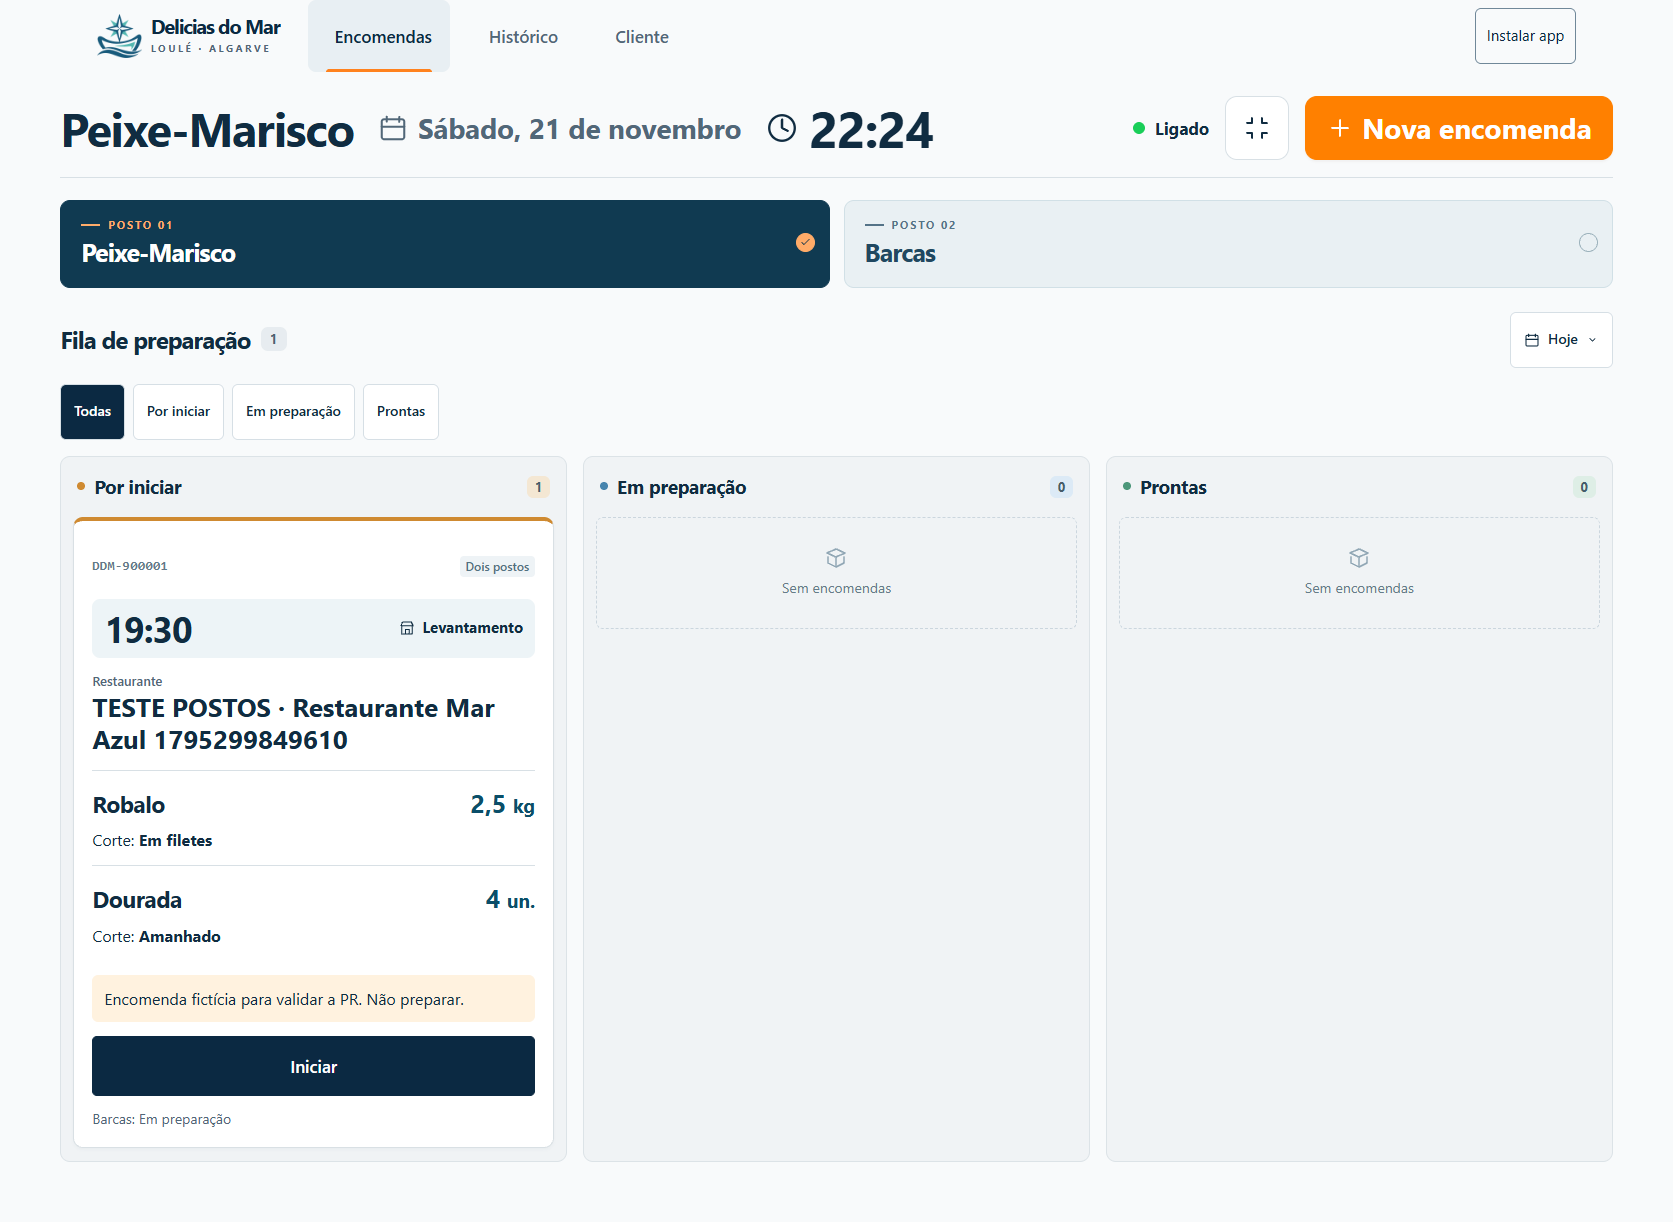
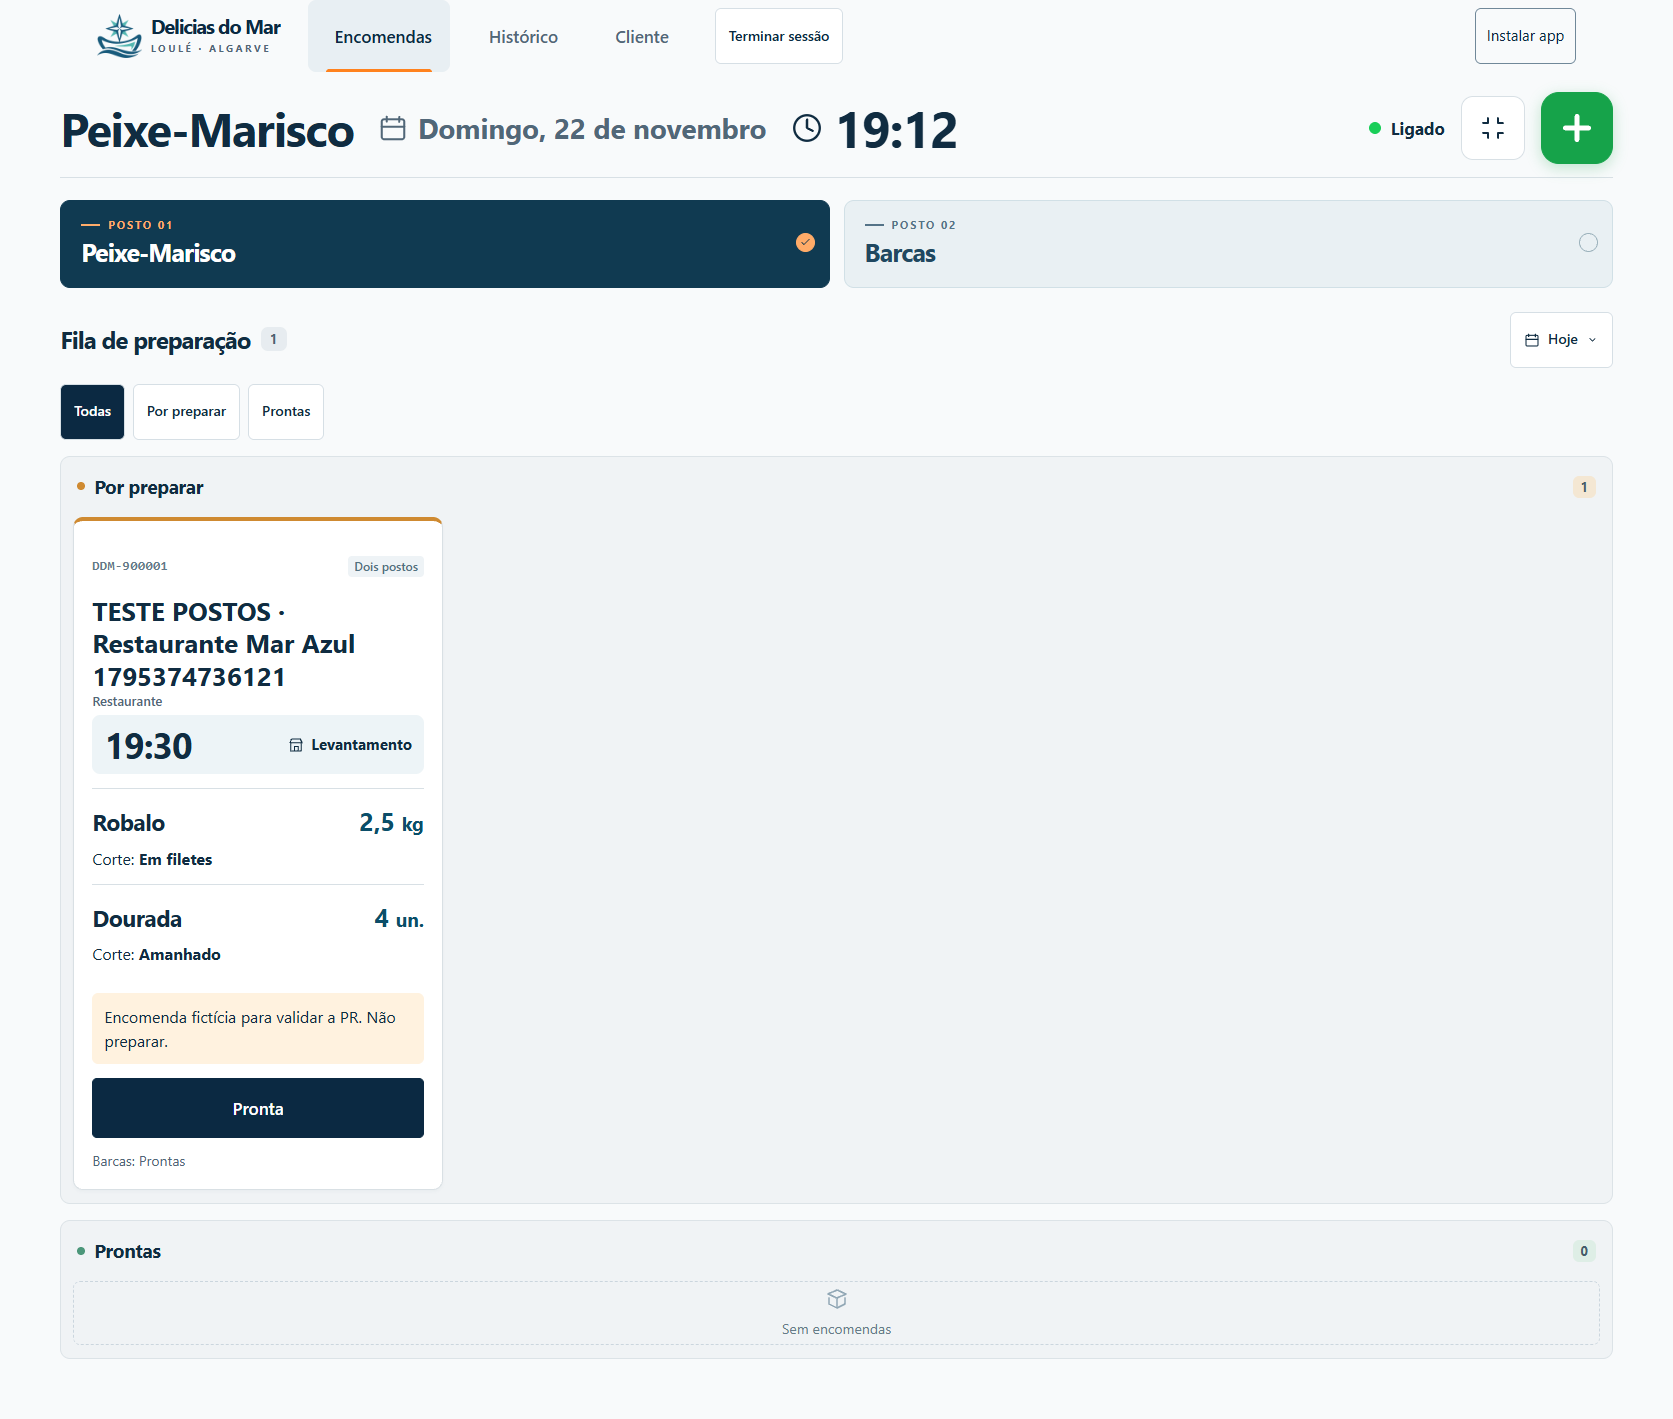
Conclui a preparação num toque e destaca o cliente

diff --git a/src/app.js b/src/app.js
@@ -1,6 +1,7 @@
 import {teamAuth} from './team-auth.js';
 const stations = {bancada:"Peixe-Marisco",barcas:"Barcas"};
-const states = ["Por iniciar","Em preparação","Prontas"];
+const states = ["Por preparar","Por preparar","Prontas"];
+const preparationStates=[0,2];
 const categories = ["Barcas","Peixe fresco","Marisco fresco","Marisco cozido","Congelados"];
 const catalog = [
   {id:"bp",cat:0,name:"Barca pequena",unit:"un.",size:"50 × 17 cm",budget:50},
@@ -22,7 +23,7 @@ const label=i=>i.name||product(i.product)?.name||"Artigo";
 const unit=i=>i.unit||product(i.product)?.unit||"";
 const fmtQty=n=>Number(n).toLocaleString("pt-PT",{maximumFractionDigits:2});
 const code=id=>refs.get(id)||String(id);
-const globalState=o=>Object.values(o.tasks).every(v=>v===2)?2:Object.values(o.tasks).some(v=>v>0)?1:0;
+const globalState=o=>Object.values(o.tasks).every(v=>v===2)?2:0;
 const typeName=o=>o.type==="restaurante"?"Restaurante":"Particular";
 function lineDescription(i){
  const p=product(i.product);
@@ -141,8 +142,7 @@ async function onlineRequest(url,data){
  const t=row.station_tasks.find(t=>t.station===data.station);const patch={};
  if(!t)throw Error("Posto indisponível.");
  if(data.action==="advance"||data.action==="back"){
- const n=statusKeys.indexOf(t.status)+(data.action==="advance"?1:-1);if(n<0||n>2)throw Error("Atualiza o posto.");
- patch.status=statusKeys[n];patch.device_station=station;
+ patch.status=data.action==="advance"?"pronta":"por_iniciar";patch.device_station=station;
  }else throw Error("Ação indisponível.");
  await rest("rpc/update_task",{p_task_id:t.id,p_expected_version:t.version,p_patch:patch});
  }
@@ -211,18 +211,17 @@ function updateClock(){
 }
 function stationCards(){return `<div class="stations" aria-label="Selecionar posto">${Object.entries(stations).map(([k,title],i)=>`<button data-station="${k}" class="station ${k} ${station===k?"selected":""}" aria-pressed="${station===k}">
 <div class="station-art" aria-hidden="true"></div><div class="station-copy"><span class="station-num"><span class="tiny-rule"></span>POSTO 0${i+1}</span><strong>${title}</strong><span class="station-desc">${k==="barcas"?"Preparação das barcas":"Peixe, marisco e congelados"}</span></div><span class="station-state">${station===k?icon("check",13):""}</span></button>`).join("")}</div>`;}
-function statusPill(n){return `<span class="status-pill ${cls[n]}"><b></b>${["Por iniciar","Em preparação","Pronta"][n]}</span>`;}
+function statusPill(n){return `<span class="status-pill ${cls[n===2?2:0]}"><b></b>${n===2?"Pronta":"Por preparar"}</span>`;}
 const modeIcon=o=>o.delivery==="Entrega"?"truck":"shop";
 function datePicker(){const text=day===dayNow()?"Hoje":day===shiftDay(dayNow(),1)?"Amanhã":dateText(day,{day:"2-digit",month:"short"});return `<label class="date-pick" title="Escolher dia">${icon("calendar",16)}${esc(text)}${icon("chev",13)}<input type="date" id="orderDay" aria-label="Dia das encomendas" value="${esc(day)}"></label>`;}
 function toolbar(total){
  const queue=page==="encomendas";
- const filters=["Todas",...states].map((label,index)=>{
-  const value=index===0?"all":statusKeys[index-1];
+ const filters=["Todas",...preparationStates.map(n=>states[n])].map((label,index)=>{
+  const value=index===0?"all":statusKeys[preparationStates[index-1]];
   return `<button class="btn" data-filter="${value}" aria-pressed="${filter===value}">${label}</button>`;
  }).join("");
  return `<div class="queuehead"><div class="queue-title"><h2>${queue?"Fila de preparação":"Histórico"}</h2><span class="total">${total}</span></div><div class="tools">${datePicker()}</div></div>${queue?`<div class="queue-filters" role="group" aria-label="Estado da preparação">${filters}</div>`:""}`;
 }
-const advanceLabel=(s,n)=>n===0?"Iniciar":s==="barcas"?"Barca pronta":"Preparação pronta";
 const handoffLabel=o=>o.delivery==="Entrega"?"Confirmar entrega":"Confirmar levantamento";
 function contactActions(o){
  const dial=o.phone?`<a class="btn" href="tel:${esc(o.phone)}">Ligar</a>`:"";
@@ -243,12 +242,12 @@ function orderCard(o,n){
  const lines=o.items.filter(i=>group(i)===station);
  const other=station==="barcas"?"bancada":"barcas";
  return `<article class="ticket ${cls[n]} ${station}-ticket" data-order="${o.id}" aria-label="${esc(code(o.id)+" · "+o.name)}"><div class="ticket-top"><button class="ref" data-detail="${o.id}" aria-label="Abrir ${esc(code(o.id))}">${esc(code(o.id))}</button>${o.priority?`<span class="priority">${icon("flag",13)}Prioritária</span>`:""}${o.tasks[other]!==undefined?`<span class="mixed">Dois postos</span>`:""}</div>
+ <button class="ticket-customer" data-detail="${o.id}"><strong>${esc(o.name)}</strong><small>${typeName(o)}</small></button>
  <div class="ticket-deadline"><strong>${esc(o.time)}</strong><span>${icon(modeIcon(o),18)}${esc(o.delivery)}</span></div>
- <button class="ticket-customer" data-detail="${o.id}"><small>${typeName(o)}</small><strong>${esc(o.name)}</strong></button>
  <div class="ticket-products">${lines.map(i=>station==="barcas"?`<div class="ticket-product"><h4>${esc(label(i))}${i.qty>1?` × ${fmtQty(i.qty)}`:""}</h4><div class="boat-spec"><strong>${esc(i.people)} pessoas</strong><span>${esc(i.size||product(i.product)?.size||"")}</span></div><p>${esc(i.use)} · ${fmtQty(i.budget)} € de marisco</p>${i.note?`<p class="product-note">${esc(i.note)}</p>`:""}</div>`:`<div class="ticket-product"><div class="product-heading"><h4>${esc(label(i))}</h4><strong class="product-quantity">${fmtQty(i.qty)} <span>${esc(unit(i))}</span></strong></div><p class="product-cut">Corte: <strong>${esc(i.cut||"Não indicado")}</strong></p>${i.note?`<p class="product-note">${esc(i.note)}</p>`:""}</div>`).join("")}</div>
  ${contactActions(o)}
  ${o.note?`<p class="ticket-note">${esc(o.note)}</p>`:""}
- ${n<2?`<button class="ticket-action primary" data-advance="${o.id}">${advanceLabel(station,n)}</button>`:""}
+ ${n<2?`<button class="ticket-action primary" data-advance="${o.id}">Pronta</button>`:""}
  ${n===2?`<p class="completion">${icon("check",18)} ${station==="barcas"?"Barcas concluídas":"Preparação concluída"}</p>${globalState(o)===2?`<button class="ticket-action primary" data-handoff="${o.id}">${handoffLabel(o)}</button>`:`<p class="awaiting">A aguardar ${other==="barcas"?"as Barcas":"Peixe-Marisco"}</p>`}`:""}
  ${o.tasks[other]!==undefined&&n!==2?`<p class="other-station">${stations[other]}: ${states[o.tasks[other]]}</p>`:""}
  <p class="card-save" data-saving="${o.id}"></p></article>`;
@@ -256,9 +255,10 @@ function orderCard(o,n){
 function empty(text){return `<div class="empty">${icon("bando",24)}<span>${text}</span></div>`;}
 function boardContent(){
  const shown=orders.filter(o=>!o.cancelled && !o.handed && o.tasks[station]!==undefined).sort(byTime);
- const lanes=states.map((title,n)=>{
+ const lanes=preparationStates.map(n=>{
+  const title=states[n];
   const excluded=filter!=="all" && filter!==statusKeys[n];
-  const row=excluded?[]:shown.filter(o=>o.tasks[station]===n);
+  const row=excluded?[]:shown.filter(o=>n===2?o.tasks[station]===2:o.tasks[station]!==2);
   let message="Sem encomendas";
   if(!loaded)message=networkProblem?"Sem ligação. Verifica a ligação à internet.":"A ligar ao posto…";
   if(excluded)message="Fora do filtro";
@@ -272,7 +272,7 @@ function boardContent(){
 function listContent(){
  const stateKey=o=>o.cancelled?"cancelada":o.handed?"entregue":statusKeys[globalState(o)];
  const items=orders.filter(o=>listState==="all"||listState===stateKey(o)).sort(byTime);
- return `<div class="list-tabs">${[["all","Todas"],...statusKeys.map((key,n)=>[key,states[n]]),["entregue","Entregues"],["cancelada","Canceladas"]].map(([key,t])=>`<button data-list="${key}" aria-pressed="${key===listState}" class="${key===listState?"active":""}">${t}</button>`).join("")}</div><div class="order-table"><div class="table-row table-head"><span>Encomenda</span><span>Cliente</span><span>Hora prevista</span><span>Postos</span><span>Estado</span></div>${items.map(o=>`<button data-detail="${o.id}" class="table-row"><strong>${code(o.id)}</strong><span>${esc(o.name)}<small>${typeName(o)}</small></span><span>${esc(o.time)}<small>${esc(o.delivery)}</small></span><span>${Object.keys(o.tasks).map(k=>stations[k]).join(" + ")}</span><span>${o.cancelled?"Cancelada":o.handed?`<span class="delivered">${icon("check",14)} Entregue</span>`:statusPill(globalState(o))}</span></button>`).join("")||empty("Sem encomendas para estes critérios.")}</div>`;
+ return `<div class="list-tabs">${[["all","Todas"],...preparationStates.map(n=>[statusKeys[n],states[n]]),["entregue","Entregues"],["cancelada","Canceladas"]].map(([key,t])=>`<button data-list="${key}" aria-pressed="${key===listState}" class="${key===listState?"active":""}">${t}</button>`).join("")}</div><div class="order-table"><div class="table-row table-head"><span>Encomenda</span><span>Cliente</span><span>Hora prevista</span><span>Postos</span><span>Estado</span></div>${items.map(o=>`<button data-detail="${o.id}" class="table-row"><strong>${code(o.id)}</strong><span>${esc(o.name)}<small>${typeName(o)}</small></span><span>${esc(o.time)}<small>${esc(o.delivery)}</small></span><span>${Object.keys(o.tasks).map(k=>stations[k]).join(" + ")}</span><span>${o.cancelled?"Cancelada":o.handed?`<span class="delivered">${icon("check",14)} Entregue</span>`:statusPill(globalState(o))}</span></button>`).join("")||empty("Sem encomendas para estes critérios.")}</div>`;
 }
 function clientContent(){return `<section class="client-intro"><div><h2>Faça a sua encomenda</h2><p>Escolha uma barca, peixe ou marisco para levantar na loja ou receber por entrega.</p>${button("bag","Começar encomenda","new","primary")}</div></section>`;}
 function render(){
@@ -303,7 +303,7 @@ async function mutate(o,action,extra={}){
  }
  const {order}=result;
  ++serial;updateOrder(order);synced=true;networkProblem=false;lastSync=Date.now();saveMessage="Alteração guardada.";render();if(dialog.open&&dialogMode==="detail")drawDetail();
- if(action==="advance")notice(order.tasks[extra.station||station]===2?"Preparação concluída.":"Preparação iniciada.");
+ if(action==="advance")notice("Preparação concluída.");
  if(action==="handoff"){
   if(dialog.open)dialog.close();
   offerUndo(order);
@@ -342,12 +342,12 @@ function workControls(o,s){
  const n=o.tasks[s];
  return `<div class="task-head"><h3>${icon(s==="barcas"?"boat":"fish")} ${stations[s]}</h3>${statusPill(n)}</div>
  <div class="task-lines">${o.items.filter(i=>group(i)===s).map(i=>`<div class="task-line">${icon(n===2?"checked":s==="barcas"?"boat":"fish",18)}<div><strong>${esc(label(i))}${i.qty>1&&s==="barcas"?" × "+fmtQty(i.qty):""}</strong><small>${esc(lineDescription(i))}${s==="barcas"&&i.note?" · "+esc(i.note):""}</small></div></div>`).join("")}</div>
- ${o.handed||o.cancelled?"":`<div class="task-btns">${n>0?`<button class="btn minor" data-task="back" data-s="${s}">${n===1?"Voltar a por iniciar":"Reabrir preparação"}</button>`:""}${n<2?`<button class="btn dark" data-task="advance" data-s="${s}">${icon(n?"check":"play",15)}${advanceLabel(s,n)}</button>`:""}</div>`}`;
+ ${o.handed||o.cancelled?"":`<div class="task-btns">${n===2?`<button class="btn minor" data-task="back" data-s="${s}">Reabrir preparação</button>`:""}${n<2?`<button class="btn dark" data-task="advance" data-s="${s}">${icon("check",15)}Pronta</button>`:""}</div>`}`;
 }
 function drawDetail(){
  const o=findOrder(detailId);if(!o)return;
  const pos=dialog.scrollTop;
- const state=o.cancelled?"Cancelada":o.handed?"Entregue":globalState(o)===2?"Pronta para entrega":globalState(o)===1?"Em preparação":"Por iniciar";
+ const state=o.cancelled?"Cancelada":o.handed?"Entregue":globalState(o)===2?"Pronta para entrega":"Por preparar";
  panel.innerHTML=modalHead(`${code(o.id)} · ${esc(o.channel)}`,esc(o.name))+`<div class="modal-body"><div class="detail-info"><span>${icon("calendar",16)}${dateText(o.day,{day:"numeric",month:"short"})} · ${esc(o.time)}</span><span>${icon(modeIcon(o),16)}${esc(o.delivery)}</span><span>${icon("user",16)}${typeName(o)}</span></div>
  ${o.address?`<p class="detail-contact">${esc(o.address)}</p>`:""}${o.note?`<div class="note">${icon("note",17)}<div><strong>Notas de preparação</strong><p>${esc(o.note)}</p></div></div>`:""}
  ${contactActions(o)}

diff --git a/src/estilo.css b/src/estilo.css
@@ -122,3 +122,12 @@ nav [data-nav],.ticket .ref,.ticket-customer,.task-btns .btn,.global .btn,.list-
 .station-header .btn.primary.new-plus:focus-visible{outline:3px solid #0b4f2a;outline-offset:3px}
 .station-header .btn.primary.new-plus .ico{width:40px;height:40px;stroke-width:3}
 @media(max-width:690px){.station-header .btn.primary.new-plus{width:64px;height:64px;min-height:64px}}
+
+/* Filas de preparação: quatro cartões por linha nos ecrãs maiores. */
+.board{grid-template-columns:minmax(0,1fr);overflow-x:visible}
+.board .lane{min-height:0}
+.lane-body{grid-template-columns:repeat(2,minmax(0,1fr));align-items:start}
+.lane-body>.empty{grid-column:1/-1;min-height:64px}
+.ticket-customer strong,.bancada-ticket .ticket-customer strong{font-size:26px}
+@media(min-width:1200px){.lane-body{grid-template-columns:repeat(4,minmax(0,1fr))}}
+@media(max-width:690px){.lane-body{grid-template-columns:minmax(0,1fr)}}

diff --git a/README.md b/README.md
@@ -33,7 +33,7 @@ Seleciona **Peixe-Marisco** ou **Barcas** e ativa o botão **Modo posto** no cab
 
 **Encomendas** (`#encomendas`) abre o posto guardado. Os atalhos `#encomendas/bancada` e `#encomendas/barcas` escolhem o posto. Os antigos atalhos `#preparacao` continuam a abrir a fila. **Histórico** (`#historico`) mostra a lista do dia e **Cliente** (`#cliente`) abre o catálogo.
 
-Toca em **Iniciar** e depois em **Barca pronta** ou **Preparação pronta**. O marisco da barca pertence ao posto Barcas. O levantamento ou a entrega só pode ser confirmado quando todos os postos da encomenda estiverem prontos. Os filtros mostram as encomendas do estado escolhido. No telemóvel, cada filtro de estado abre apenas a respetiva coluna; **Todas** mostra as três em sequência.
+Toca em **Pronta** uma única vez quando o trabalho desse posto estiver terminado. As filas mostram **Por preparar** e **Prontas**, com o cliente em destaque. As tarefas antigas em preparação aparecem em **Por preparar** e também terminam num toque. O marisco da barca pertence ao posto Barcas. O levantamento ou a entrega só pode ser confirmado quando todos os postos da encomenda estiverem prontos. Os filtros mostram as encomendas do estado escolhido. No telemóvel, cada filtro de estado abre apenas a respetiva coluna; **Todas** mostra as três em sequência.
 
 Antes de publicar este fluxo, rever e aprovar [a alteração de update_task](migrations/001_fluxo_postos.sql). A função em produção exige os três passos antigos para concluir a barca. A migração preserva as colunas e os pedidos das versões anteriores da app.
 
@@ -51,7 +51,7 @@ Rever [003_questionario.sql](migrations/003_questionario.sql) antes da publicaç
 
 ## Histórico
 
-Escolhe o dia e filtra por **Todas**, **Por iniciar**, **Em preparação**, **Prontas**, **Entregues** ou **Canceladas**. Abre a encomenda para ver as ações disponíveis.
+Escolhe o dia e filtra por **Todas**, **Por preparar**, **Prontas**, **Entregues** ou **Canceladas**. Abre a encomenda para ver as ações disponíveis.
 
 Depois de confirmar um levantamento ou entrega, **Desfazer** fica disponível durante oito segundos. No Histórico, abre uma encomenda entregue e confirma **Desfazer levantamento** ou **Desfazer entrega** para a devolver a Prontas.
 
